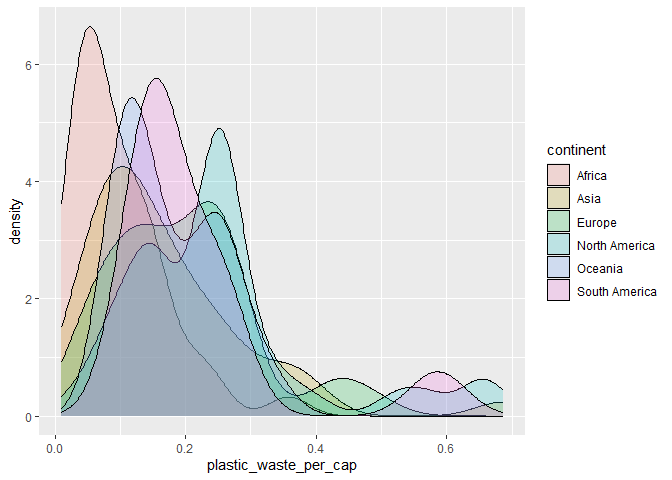
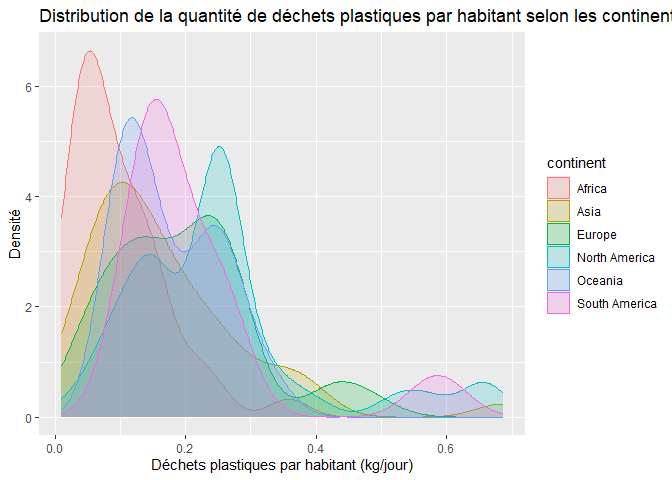
Mise à jour de toutes les questions

diff --git a/lab-02.md b/lab-02.md
@@ -48,8 +48,9 @@ ggplot(plastic_waste, aes(x=plastic_waste_per_cap))+
 ``` r
 plastic_waste <- plastic_waste %>%
   filter(plastic_waste_per_cap < 3.5)
-ggplot(plastic_waste, aes(x=plastic_waste_per_cap, fill=continent)) +
-  geom_density(alpha=0.2)
+ggplot(plastic_waste, aes(x=plastic_waste_per_cap, fill=continent, color=continent)) +
+  geom_density(alpha=0.2)+
+  labs(title="Distribution de la quantité de déchets plastiques par habitant selon les continents", x="Déchets plastiques par habitant (kg/jour)", y="Densité")
 ```
 
 ![](lab-02_files/figure-gfm/plastic-waste-density-1.png)<!-- --> Le
@@ -69,7 +70,8 @@ Boxplot:
 plastic_waste <- plastic_waste %>%
   filter(plastic_waste_per_cap < 3.5)
 ggplot(plastic_waste, aes(x=continent, y=plastic_waste_per_cap)) +
-  geom_boxplot()
+  geom_boxplot()+
+  labs(title="Distribution de la quantité de déchets plastiques par habitant selon les continents", x="Continent", y="Déchets plastiques par habitant (kg/jour)")
 ```
 
 ![](lab-02_files/figure-gfm/plastic-waste-boxplot-1.png)<!-- -->
@@ -80,7 +82,8 @@ Violin plot:
 plastic_waste <- plastic_waste %>%
   filter(plastic_waste_per_cap < 3.5)
 ggplot(plastic_waste, aes(x=continent, y=plastic_waste_per_cap)) +
-  geom_violin()
+  geom_violin()+
+  labs(title="Distribution de la quantité de déchets plastiques par habitant selon les continents", x="Continent", y="Déchets plastiques par habitant (kg/jour)")
 ```
 
 ![](lab-02_files/figure-gfm/plastic-waste-violin-1.png)<!-- -->
@@ -139,11 +142,16 @@ ggplot(plastic_waste, aes(x=plastic_waste_per_cap, y=coastal_pop))+
 ![](lab-02_files/figure-gfm/plastic-waste-population-coastal-1.png)<!-- -->
 
 Au niveau des deux graphiques, il n’y a pas vraiment de relation plus
-forte pour l’une des paires de variables. Les points sont assez
-dispersés horizontalement et cela indique que la production de déchets
-par habitant est relativement indépendante de la population.La
-différence principale est seulement au niveau de l’échelle de la
-population, qui est plus vaste au niveau de la population totale.
+forte pour l’une des paires de variables. Sur les deux graphiques, les
+points sont assez dispersés horizontalement et cela indique que la
+production de déchets par habitant est relativement indépendante de la
+population. La différence principale est seulement au niveau de
+l’échelle de la population, qui est plus vaste au niveau de la
+population totale. Cela fait en sorte que le graphique sur les
+populations totales est plus difficile à lire en raison des très grands
+pays qui tirent l’échelle vers le haut. Cependant, même si le graphique
+sur les populations côtières donne une meilleure répartition, la
+tendance reste très faible.
 
 ## Conclusion
 
